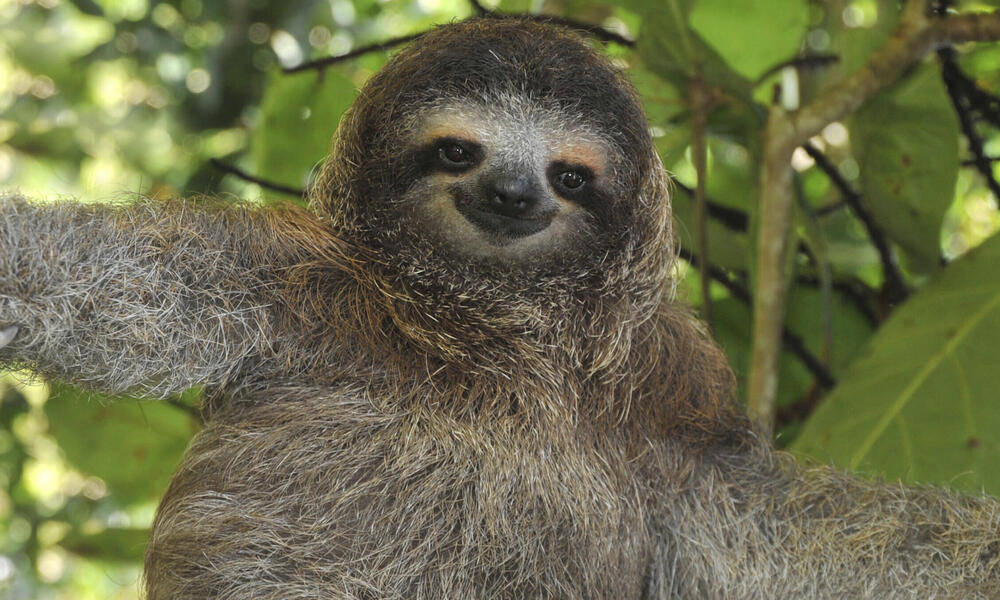
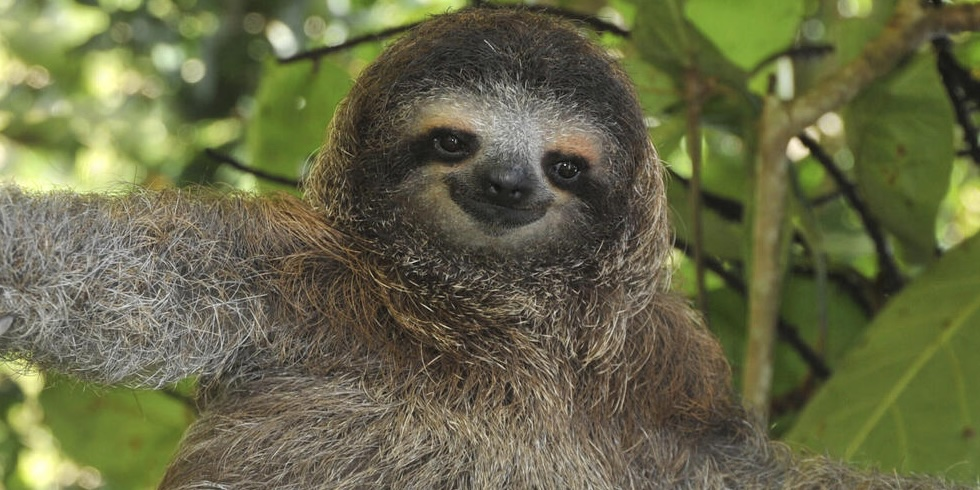
fixed image aspect ratio issues, added priority flag

diff --git a/libs/common/ui/src/lib/components/animal-card/animal-card.component.spec.ts b/libs/common/ui/src/lib/components/animal-card/animal-card.component.spec.ts
@@ -42,6 +42,7 @@ describe('AnimalCardComponent', () => {
     expect(imgEl.nativeElement.attributes['width'].value).toBe('400');
     expect(imgEl.nativeElement.attributes['height'].value).toBe('200');
     expect(imgEl.properties['placeholder']).toBe(PLACEHOLDER_IMAGE);
+    expect(imgEl.nativeElement.hasAttribute('priority')).toBe(true);
 
     const contentEl = el.query(By.css('mat-card-content'));
     expect(contentEl).toBeTruthy();

diff --git a/libs/common/ui/src/lib/components/animal-card/animal-card.component.html b/libs/common/ui/src/lib/components/animal-card/animal-card.component.html
@@ -1,5 +1,5 @@
 <mat-card class="card" appearance="outlined">
-  <img [ngSrc]="image()" alt="{{ name() }}" width="400" height="200" [placeholder]="PLACEHOLDER_IMAGE" />
+  <img [ngSrc]="image()" alt="{{ name() }}" width="400" height="200" [placeholder]="PLACEHOLDER_IMAGE" priority />
   <mat-card-content>
     <p>{{ description() }}</p>
   </mat-card-content>
